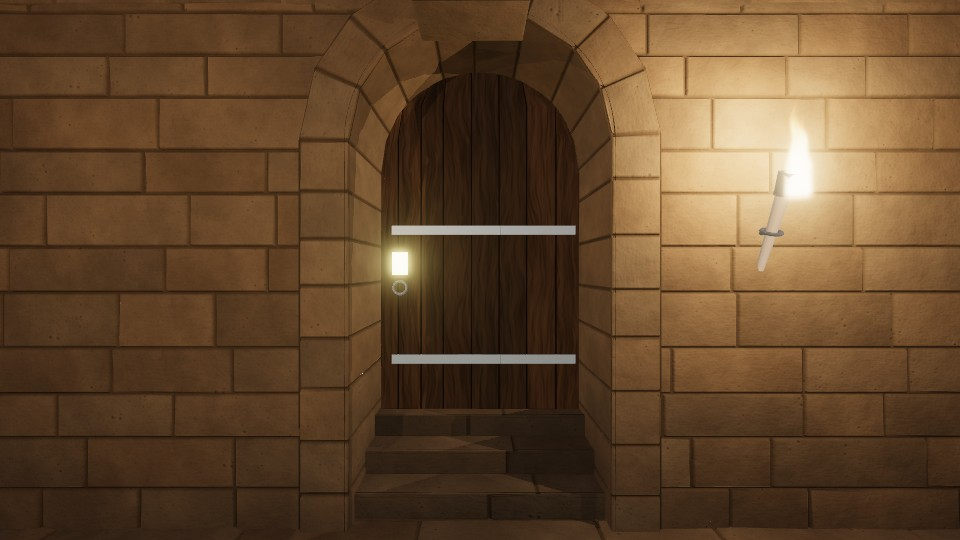
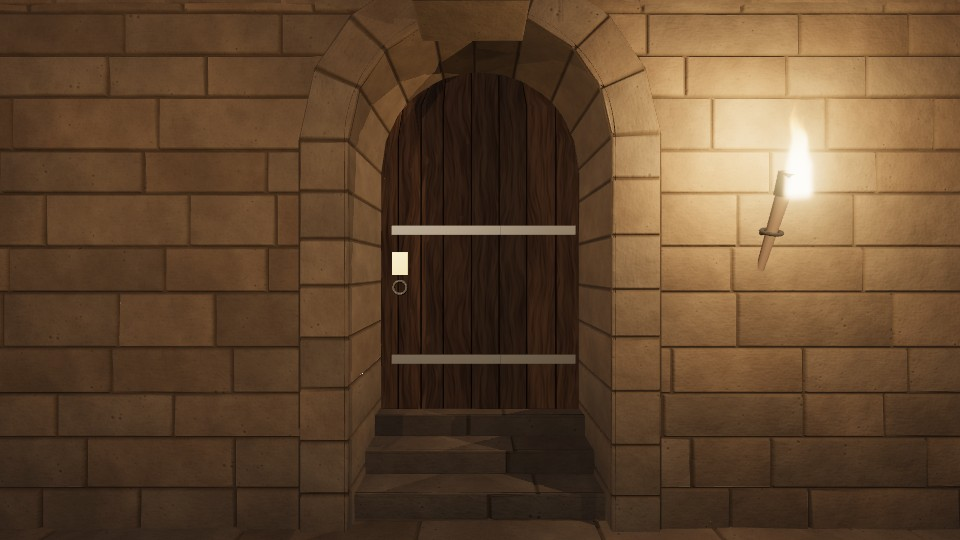
Dull the iron door fittings and refresh door images
Claude-Session: https://claude.ai/code/session_01B8uYcq2gEB5Nx1DmHVHTup

Changed region(s): [[0.375, 0.3852, 0.625, 0.5926], [0.7812, 0.3259, 0.8438, 0.5037], [0.4062, 0.6519, 0.625, 0.6815]]

diff --git a/src/app/game.ts b/src/app/game.ts
@@ -52,7 +52,7 @@ export class Game {
   private goalAt: Vector3 | null;
 
   constructor(private site: Site, desc: SceneDescription, scene: Scene, wood: Material, private player: Player, private ui: GameUi) {
-    const iron = makePropMaterial({ color: new Color(0.09, 0.085, 0.08), roughness: 0.5, metalness: 0.85 });
+    const iron = makePropMaterial({ color: new Color(0.07, 0.065, 0.06), roughness: 0.74, metalness: 0.5 });
     const timber = makePropMaterial({ color: new Color(0.2, 0.13, 0.08), roughness: 0.85, metalness: 0 });
 
     for (const d of desc.doors ?? []) {
@@ -79,7 +79,7 @@ export class Game {
       // The lock plate takes the colour of its key, so a locked door says what it wants.
       if (spec.lock) {
         const plate = new Mesh(new BoxGeometry(0.13, 0.19, t + 0.04), makePropMaterial({
-          color: METAL[spec.lock], metalness: 0.9, roughness: 0.35, emissive: METAL[spec.lock], emissiveIntensity: 0.12,
+          color: METAL[spec.lock], metalness: 0.8, roughness: 0.5, emissive: METAL[spec.lock], emissiveIntensity: 0.1,
         }));
         plate.position.set(W - 0.16, 1.22, 0);
         group.add(plate);
